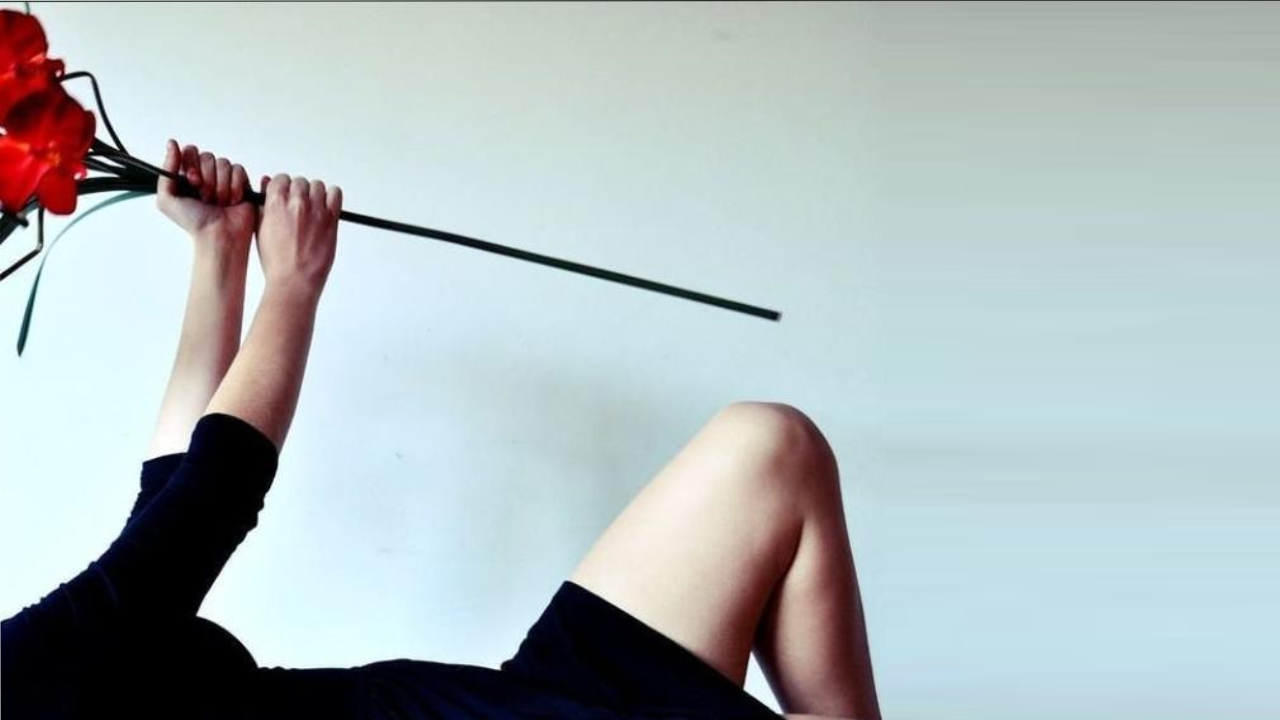
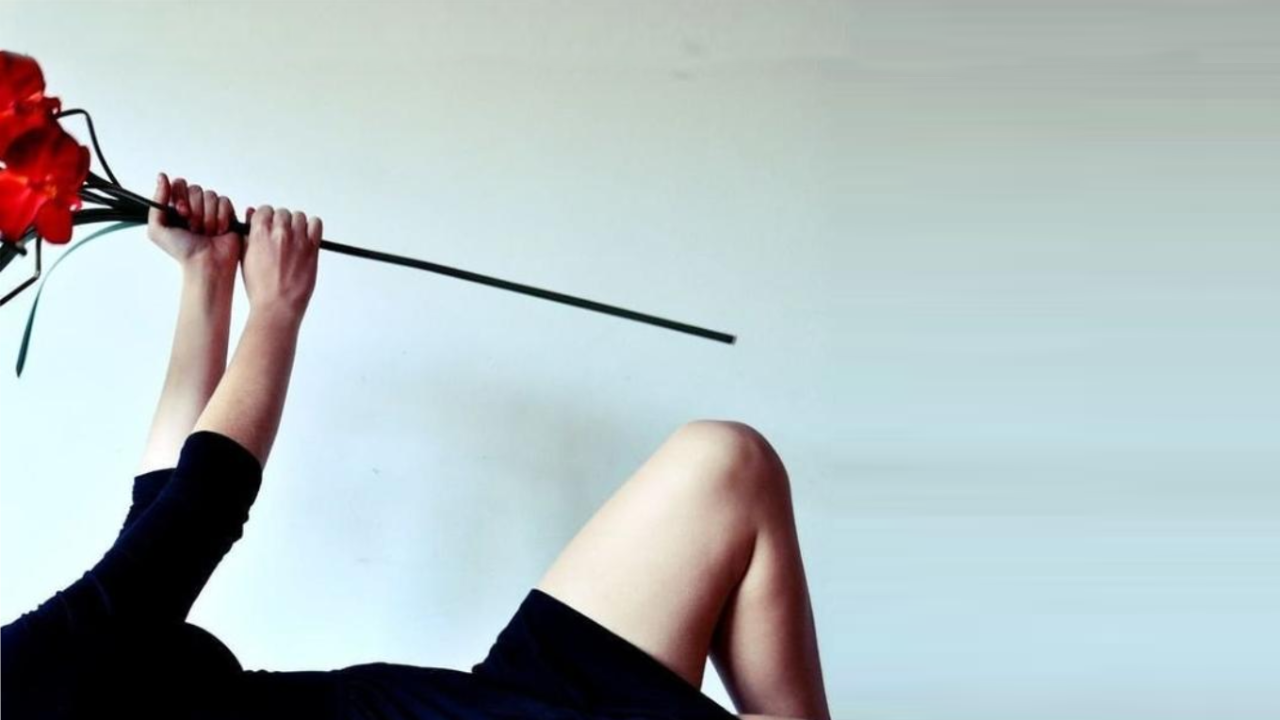
start bio

diff --git a/docs/css/style.css b/docs/css/style.css
@@ -21,21 +21,17 @@ html {
     font-size: 62.5%;
     font-family: 'Roboto', sans-serif;
     color: var(--black_gros);
-    background-size: 100%;
     background-color: #EFF1E7;
-    background-image: url(../assets/index.png);
-    background-size: 135rem;
-    background-position: right;
-    background-position-y: top;
-    background-repeat: no-repeat;
+   
 
 }
+/* Index */
 header {
     position: fixed;
     display: flex;
-    flex-direction: column;
-    justify-content: space-evenly;
-    padding: 1rem 2rem 0rem;
+    justify-content: space-between;
+    align-items: flex-start;
+    padding: 3rem 3rem;
     width: 100%;
     min-width: 320px;
     height: 80px;
@@ -44,12 +40,11 @@ header {
     z-index: 102;
 }
 .ham {
-  position: absolute;
-  display: block;
-  align-self:flex-end ;
+  /* align-self:flex-end ; */
   z-index: 1000;
   width: 3rem;
   height: 3rem;
+  margin-top: 1rem;
   border: none;
   cursor: pointer;
   background-color: transparent;
@@ -66,7 +61,7 @@ header {
     display: flex;
     flex-direction: column;
     justify-content: flex-end;
-    padding-bottom: 3rem;
+    padding-bottom: 5rem;
     background-color: transparent;
     z-index: 101;
     top: 0;
@@ -82,25 +77,30 @@ header {
   }
   .menuLink{
       z-index: 2000;
-      font-size: 2rem;
+      font-size: 1.5rem;
       text-decoration: none;
   }
   .menuLink:hover {
     border-bottom: 2px solid white;  
   }
 .main {
-    width: 100%;
-    height: 100%;
-    padding: 3rem 3rem ;
+    width: 100vw;
+    height: 100vh;
+    padding: 2rem 3rem ;
+    background-image: url(../assets/index.png);
+    background-size: 135rem;
+    background-position: right;
+    background-position-y: top;
+    background-repeat: no-repeat;
 }
 .titleSite {
-    position: absolute;
     display: flex;
     flex-direction: column;
     justify-content: flex-end;
     align-items: flex-end;
+    width: 176px;
 }
-.name {
+.name, .name-header {
     display: block;
     font-family:'Red Rose', cursive;
     font-weight: 400;
@@ -108,27 +108,53 @@ header {
     color: var(--red_gros);
     text-transform: uppercase;
 }
-.name span {
+.name span, .name-header span {
     font-weight: bold;
     letter-spacing: 0.3em;
 }
-.actrees {
+.actrees, .actrees-header {
     display: block;
     padding-right: 0.6rem ;
     font-size: 1.4rem;
     text-transform: uppercase;
     font-weight: 400;
 }
-
+/* Bio */
+.titleSite-header {
+    display: flex;
+    flex-direction: column;
+    justify-content: flex-end;
+    align-items: flex-end;
+    width: 176px;
+}
+.bioSection {
+    width: 100vw;
+    padding-top: 10rem;
+    overflow: hidden;
+    background-image: url(../assets/aboutme.png);
+    background-size: 100%;
+    background-repeat: no-repeat;
+}
+.sectionTitle {
+    font-size: 2rem;
+    text-align: center;
+    text-transform: uppercase;
+    color: var(--black_gros);
+}
+.bioTextContainer{
+    width: 80%;
+    margin: 0 auto;
+}
+.bioText {
+    text-align: center;
+    font-size: 1.2rem;
+}
 
 @media screen and (min-width: 320px) {
 }
 @media screen and (min-width: 479px) {
 }
 @media screen and (min-width: 767px) {
-    html {
-        background-size: 130rem;
-    }
     .name{
         font-size: 4rem;
     }
@@ -148,7 +174,7 @@ header {
         top: 0;
         left: 0;
         background: transparent;
-        width: 40%;
+        width: 50%;
         height: auto;
         overflow: hidden;
         color: white;
@@ -157,13 +183,11 @@ header {
         /* transition: transform 0.5s ease; */
       }
       .titleSite {
-        margin-top: 30rem;
-    }
+          width: 60%;
+          padding-top: 10rem;
+      }
 }
 @media screen and (min-width: 1024px) {
-    html {
-        background-size: 185rem;
-    }
     .name{
         font-size: 6rem;
     }
@@ -172,6 +196,7 @@ header {
         padding-right: 2rem;
     }
     .main {
-        padding: 12rem 3rem;
+        padding: 12rem 10rem;
+        background-size: 185rem;
     }
 }

diff --git a/docs/pages/bio.html b/docs/pages/bio.html
@@ -10,20 +10,32 @@
 </head>
 <body>
     <header>
-        <div class="titleSite">
-            <h1 class="name" id="name">Violeta <span>Gros</span></h1>
-            <h3 class="actrees" id="actrees">Actriz</h3>
+        <div class="titleSite-header">
+            <h1 class="name-header" id="name-header">Violeta <span>Gros</span></h1>
+            <h3 class="actrees-header" id="actrees-header">Actriz</h3>
         </div>
         <button class="ham"></button>
     <nav class="navbar">
-        <a href="./index.html" class="menuLink">Home</a>
-        <a href="./pages/bio.html" class="menuLink">Bio</a>
+        <a href="../index.html" class="menuLink">Home</a>
+        <a href="./bio.html" class="menuLink">Bio</a>
         <a href="./pages/fotografias.html" class="menuLink">Fotografías</a>
         <a href="./pages/trabajos.html" class="menuLink">Trabajos</a>
         <a href="./pages/contacto.html" class="menuLink">Contacto</a>
     </nav>
     </header>
-    <section class="main" id="main">
+    <section class="bioSection" id="bioSection">
+        <img class="bioImg" src="../assets/aboutme.png" alt="pic-of-her">
+        <h2 class="bioTitle sectionTitle">Bio</h2>
+        <div class="bioTextContainer">
+        <p class="bioText">Licenciada en Actuación por la Universidad Nacional de las Artes. Siguió su formación en diversos seminarios con Mariano Saba en Sportivo Teatral y Toto Castiñeiras.
+            También realizó estudios en el arte del clown de la mano de Marcelo Katz en el Teatro San Martín, Carla pollachi y Georgina Nacif (2012/2015).
+           Tuvo participación en diversos festivales artísticos como el Festival internacional de teatro universitario de Blumenao (FITUB BRASIL, 2017), Festival artístico de la Universidad Nacional de las Artes (FAUNA, 2017), Habitar Caffarena (2018), Festival de teatro inclusivo PANAMBÍ (2018), Fiestas Regionales  y Provinciales del Teatro Independiente (2019).
+           Desde el año 2014 se desempeña en obras de diversas categorías como performance, teatro infantil, clown e instalaciones teatrales, tales como Lo que cubren las flores (2016), Agón (2017), A todas las bestias con nombre (2017), Querernos, una experiencia colectiva (2017/2019), Valentín Colorín (2018), Guía práctica para una mujer libre (2018), ¿Y qué vamos a hacer con estas manos? (2018/19). En el año 2013, inicia la compañía de títeres Cartapesta que acerca obras y talleres a barrios del conourbano bonaerense. 
+           Actualmente, forma parte de la compañía teatral Querernos, realizando montajes performáticos desde 2017 a la actualidad, donde se desempeña como actriz y como productora.
+           A partir del año 2016 y hasta la actualidad, desempeña su carrera como docente de teatro en nivel inicial y primario. En 2018, se incorpora como ayudante de 2da en la materia Actuación I, cátedra Cappa, de la mano de Martín Otero, en la Lic. en actuación (U.N.A)
+           También participa como tallerista y recreóloga en el desarrollo de la colonia creativa para niños y niñas  El Recreo. 
+           </p>
+        </div>
     </section>
     <script>
         var navbar = document.querySelector(".navbar")
